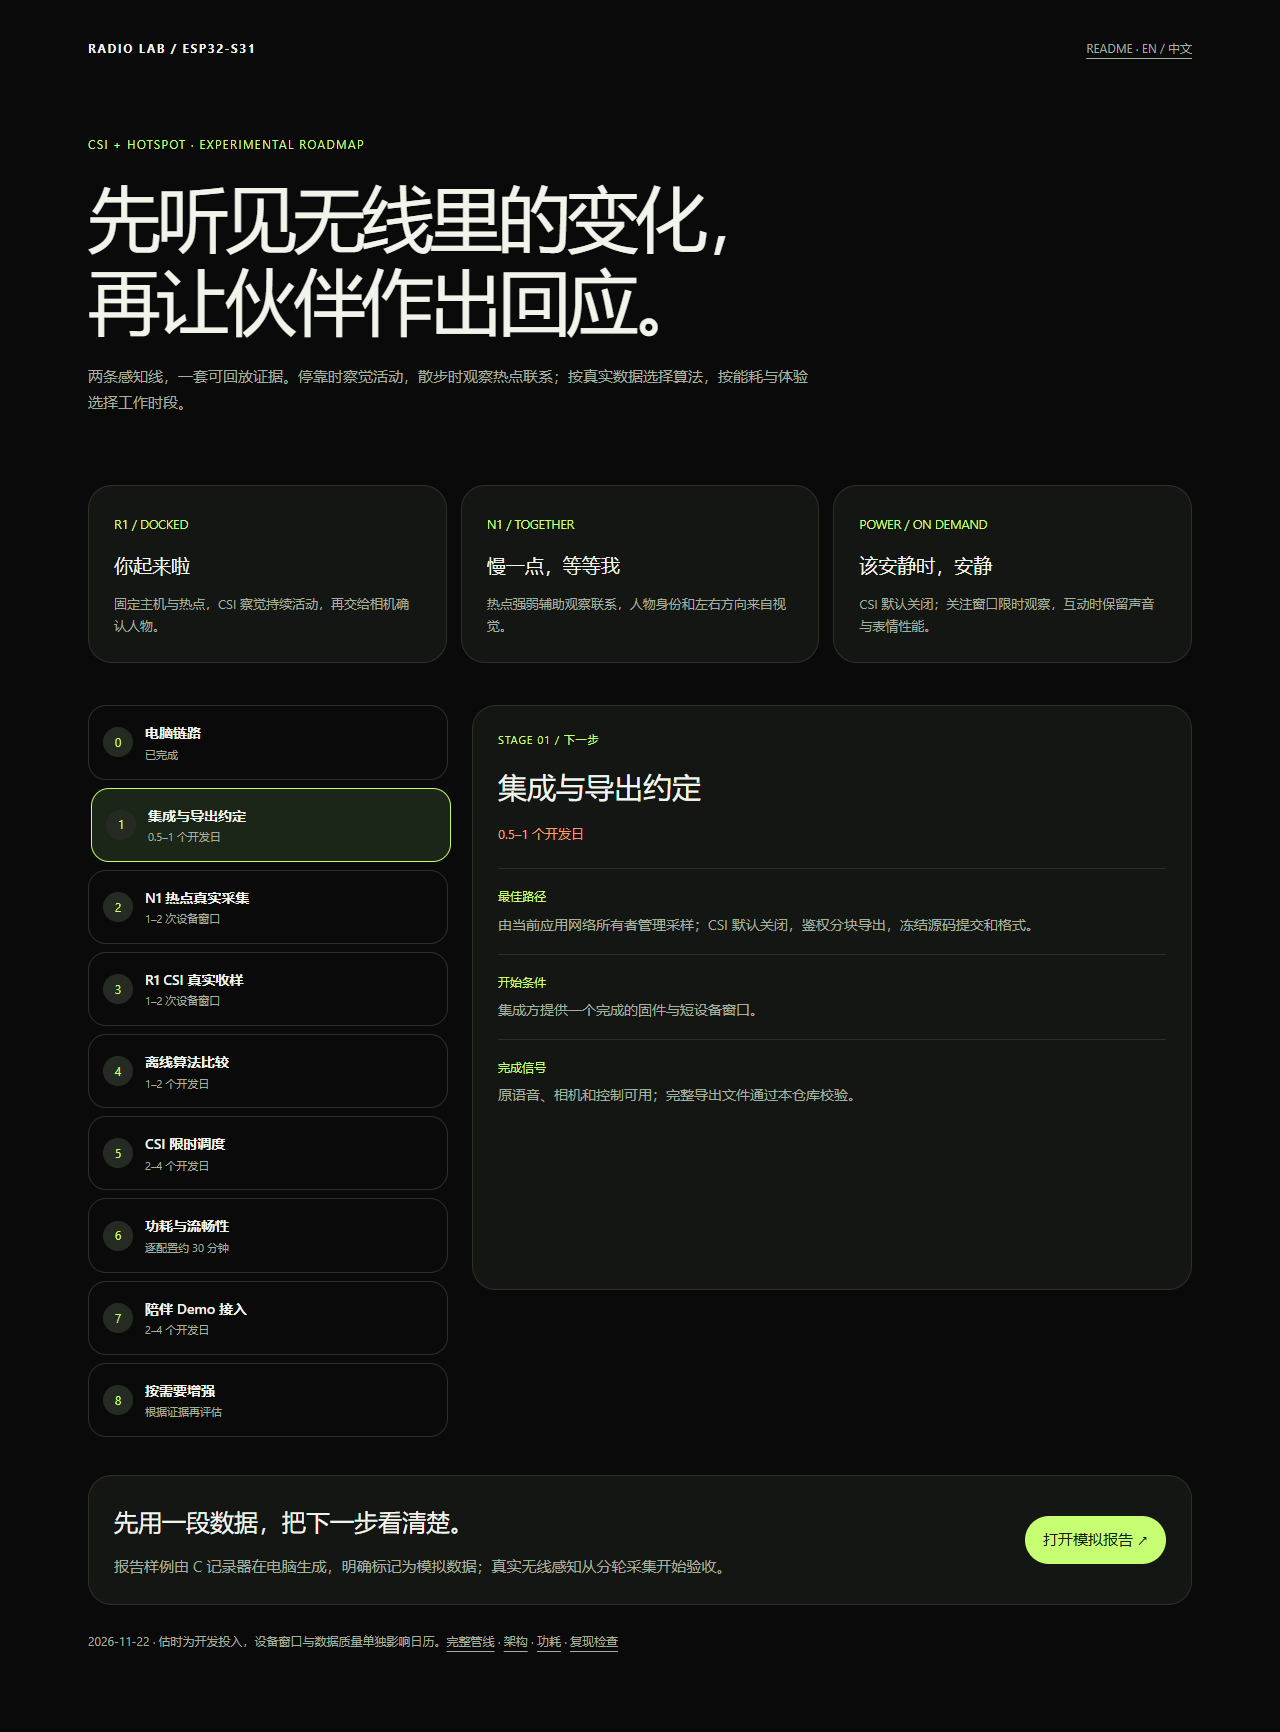
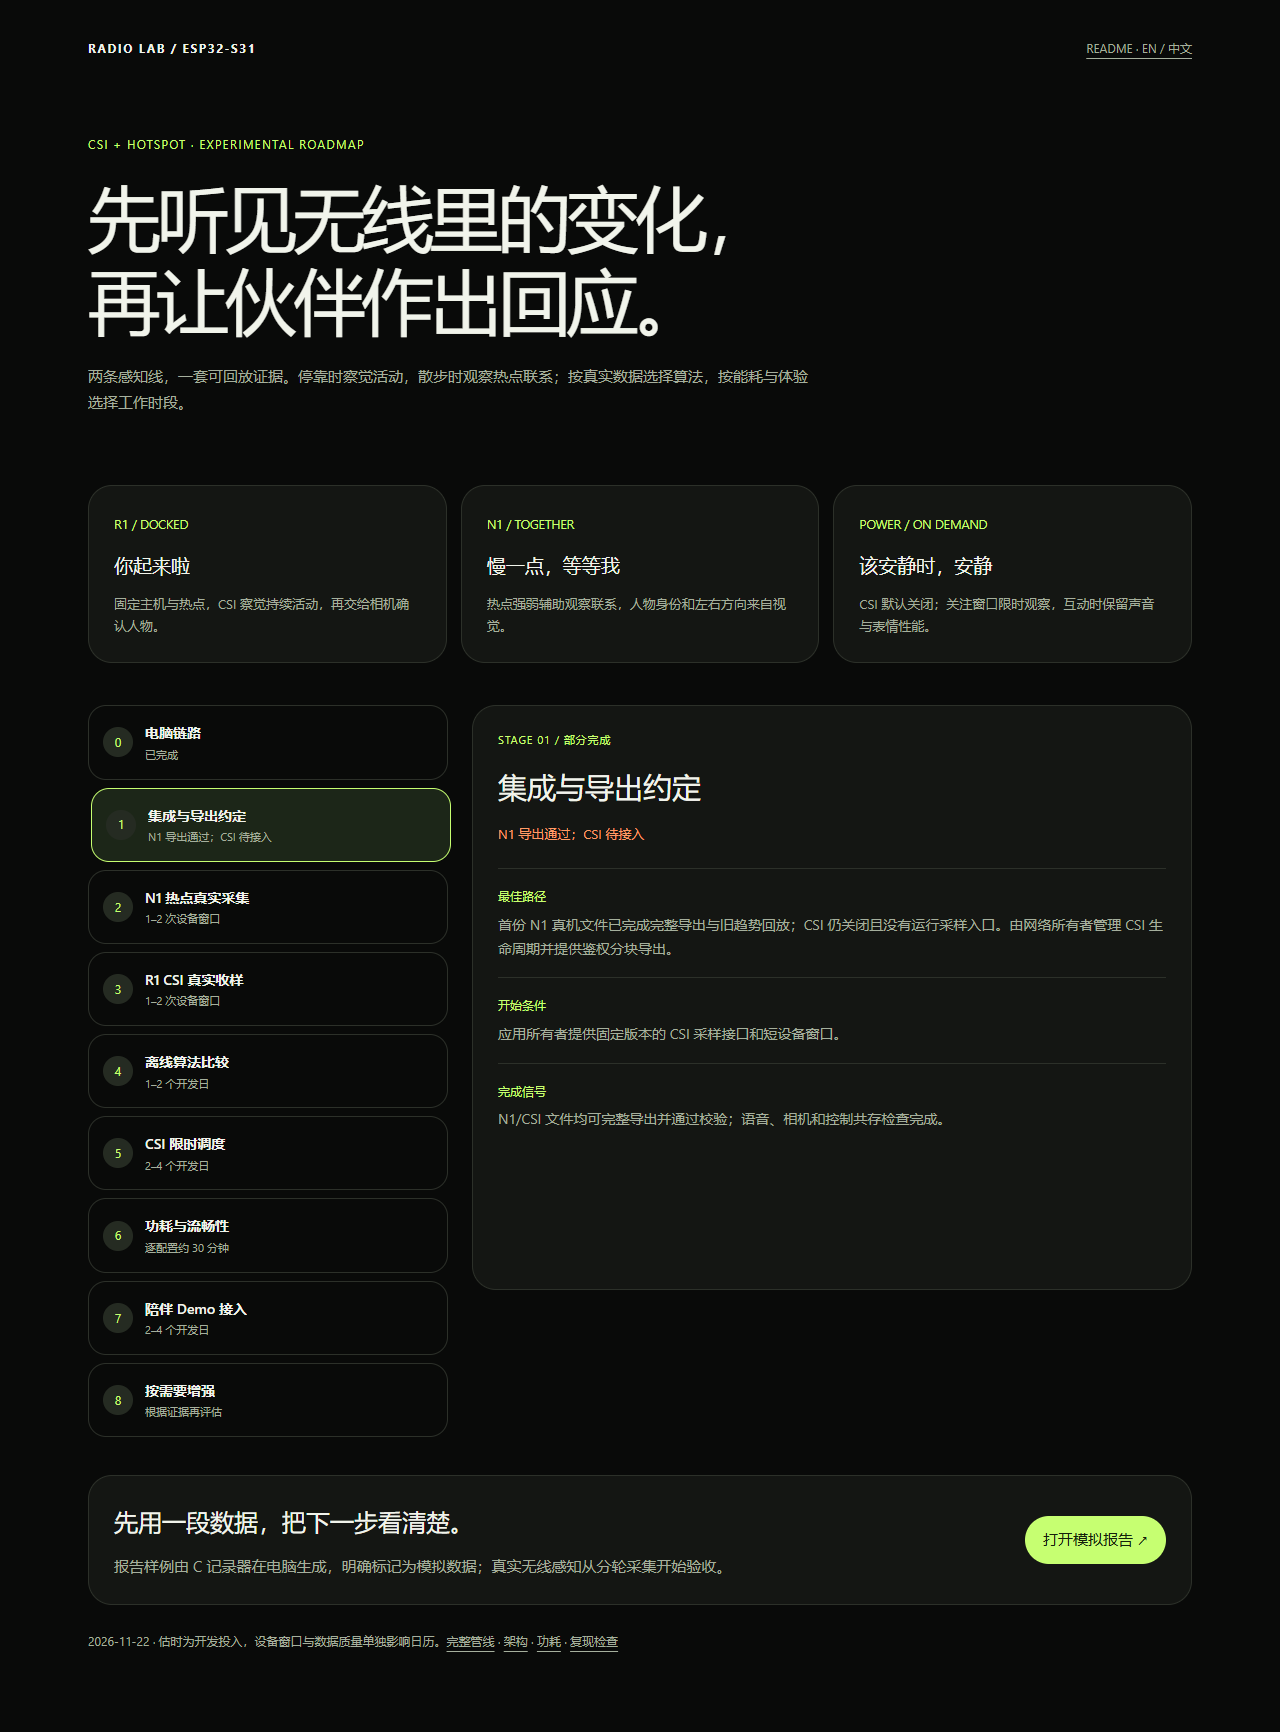
docs: review first N1 device export and plan labeled trials

diff --git a/docs/index.html b/docs/index.html
@@ -18,8 +18,8 @@
 'use strict';
 const stages=[
 ['电脑链路','已完成','已交付 · 可复现','有界记录器、严格文件校验和离线 HTML 报告。模拟数据用于验证处理链路。','固定 S31 源码与明确的文件格式。','C 核心、Python 分析和浏览器交互检查通过；保留模拟标记与输入校验。'],
-['集成与导出约定','0.5–1 个开发日','下一步','由当前应用网络所有者管理采样；CSI 默认关闭，鉴权分块导出，冻结源码提交和格式。','集成方提供一个完成的固件与短设备窗口。','原语音、相机和控制可用；完整导出文件通过本仓库校验。'],
-['N1 热点真实采集','1–2 次设备窗口','待真实采集','用手机热点标注站定、走远、走近、转身、口袋和身体遮挡；保留来源、读序号和人工标签。','当前固件的 N1 导出可用。','走远／走近各至少 5 次，另有遮挡对照；独立轮次验证趋势。'],
+['集成与导出约定','N1 导出通过；CSI 待接入','部分完成','首份 N1 真机文件已完成完整导出与旧趋势回放；CSI 仍关闭且没有运行采样入口。由网络所有者管理 CSI 生命周期并提供鉴权分块导出。','应用所有者提供固定版本的 CSI 采样接口和短设备窗口。','N1/CSI 文件均可完整导出并通过校验；语音、相机和控制共存检查完成。'],
+['N1 热点真实采集','1–2 次设备窗口','首份导出完整，动作未标记','run 6 有 170 条有效读数，但每条都是未标记；下一轮使用手机热点标出站定、走远、走近、转身、口袋和身体遮挡。','当前固件的 N1 导出可用。','走远／走近各至少 5 次，另有遮挡对照；独立轮次验证趋势。'],
 ['R1 CSI 真实收样','1–2 次设备窗口','待真实采集','固定主机、头部与热点；采安静、用户走动和自身运动。核对实际字节格式与可用包率。','完整 CSI 导出、稳定连接与真实姿态依据。','载荷、无效前缀、包率和丢样可解释；完成语音／相机关开对照。'],
 ['离线算法比较','1–2 个开发日','数据通过后','建立简单统计基线，再评估 ESPectre core-only 候选。按完整采集轮次拆分调参和验收。','可信的真实数据与格式说明。','每轮检出、漏检、误触发和延迟有记录；留出数据上的收益明确。'],
 ['CSI 限时调度','2–4 个开发日','算法通过后','优先约定前的关注窗口；另比较采 6 秒／停 24 秒。关闭驱动和探测，恢复后重建背景。','真实数据上的活动检测已可用。','窗口外关闭，状态发布未知；动作、对话和取消可结束观察。'],

diff --git a/docs/DEVELOPMENT_PLAN.md b/docs/DEVELOPMENT_PLAN.md
@@ -2,6 +2,8 @@
 
 Updated 2026-11-22. This roadmap develops docked activity awareness and lightweight walking companionship from labeled data, measured power and repeatable interaction checks.
 
+Current evidence: the first real N1 export from AirBoat 1.33.1 contains 170 valid observations over 88.207 seconds with no missing or overwritten records. All are unlabeled; movement classification is pending. The handoff firmware has CSI disabled and no runtime CSI capture path. See the [run 6 field note](FIELD_NOTES/2026-11-22-n1-run6.md) and [next capture card](N1_NEXT_CAPTURE.zh-CN.md).
+
 ## Target experience
 
 - **R1: “你起来啦”** — the companion is docked with its radio endpoints fixed. It notices sustained nearby activity, wakes its eyes, and uses the existing camera to confirm who is there.
@@ -30,7 +32,7 @@ Stages 2 and 3 share one device and are scheduled in short, separate windows. Of
 | Stage | Estimate | Goal and best path | Entry | Exit / evidence |
 | --- | --- | --- | --- | --- |
 | 0. Desktop tools and contracts | Complete | Portable bounded N1/R1 cores; strict validators; self-contained HTML replay | Fixed S31 source snapshot | C/Python/browser checks pass. Current simulated package is here; it is not real RF evidence. |
-| 1. Integration and export contract | 0.5–1 day | Integrate through the application’s current network owner; CSI remains default off; authenticated chunked export; freeze exact firmware commit and schema | Application owner provides a completed firmware build and a device window | Existing voice, camera and control regressions pass with probe off; complete N1/CSI files export and replay. Record firmware commit, schema, enabled state and counters. |
+| 1. Integration and export contract | N1 partially verified; CSI integration pending | N1 export completed on handoff snapshot 1.33.1. Integrate CSI through the network owner, default off, with authenticated chunked export and a fixed firmware/schema | Application owner provides a completed firmware build and a device window | N1 file integrity and historical replay passed. CSI runtime/export and off/on voice, camera and control coexistence remain separate acceptance gates. |
 | 2. N1 labeled phone-hotspot data | 1–2 sessions, about 30–45 min each | Keep the Android hotspot and device linked; record fixed/nearby baseline, walk-away, return, turns and pocket/body-block controls. Repeat each movement at least 5 times. Keep human labels; never convert dBm into meters. | Stage 1 export and matching device/run identity | At least 5 away and 5 toward trials, plus turn and occlusion controls. All files validate; compare held-out repetitions. Provisional target: correct trend in at least 4/5 in each direction; turns/occlusion alone do not trigger the social event. |
 | 3. R1 CSI format, rate and coexistence | 1–2 sessions, about 30–45 min each | Fix both radio endpoints and the airframe/head. Capture quiet, person movement, airframe motion, channel/reconnect changes. First use received traffic; test 20 packets/s gateway ping only as a separate, bounded comparison. | Stage 1 export, stable connected AP and trustworthy motion evidence | Confirm actual byte layout, invalid prefix handling, usable packet rate and gaps. Quiet / person movement / self-motion files validate and have labels. Voice, camera and phone link have an off/on comparison. No activity claim until layout is understood. |
 | 4. Offline detector comparison | 1–2 days | Compare a simple per-session baseline with an ESPectre core-only candidate after feature normalization; split evaluation by complete recording/session, not neighboring frames | Stages 2 and 3 supply valid labeled captures and format note | Publish per-trial detection, miss, false-event and delay metrics; report held-out results and limitations. Keep CSI as data only if it beats the no-CSI baseline on the intended scene. |

diff --git a/README.md b/README.md
@@ -15,6 +15,7 @@ An experimental ESP32-S31 project for fixed-dock Wi-Fi CSI activity sensing and 
 - [Power plan](docs/POWER_PLAN.md): bounded CSI windows and whole-device measurement.
 - [Reproduce desktop checks](docs/TESTING.md).
 - [Dated validation record](docs/VALIDATION.md).
+- [First real N1 export review](docs/FIELD_NOTES/2026-11-22-n1-run6.md).
 - [Open the simulated report](examples/report/report.html).
 - [Interactive stage map](docs/index.html): browse each phase, input requirement, and completion signal.
 
@@ -22,7 +23,7 @@ An experimental ESP32-S31 project for fixed-dock Wi-Fi CSI activity sensing and 
 
 | Area | Included | Evidence boundary |
 | --- | --- | --- |
-| N1 hotspot | Bounded recorder and relative RSSI trend | C tests; real phone movement and RF performance remain to be measured |
+| N1 hotspot | Bounded recorder and relative RSSI trend | First real export passed integrity checks; it has no movement labels, so walk-away performance remains unmeasured |
 | R1 CSI | S31 LLTF8 configuration adapter, bounded callback queue, JSONL encoder and quality analyzer | Host tests and fixed-SDK translation-unit checks in the source package; real payload layout and packet rate remain to be measured |
 | Offline review | HTML report for N1 JSON and R1 CSI JSONL | Browser-tested with simulated data |
 | Power-aware sensing | Design for CSI-off-by-default and bounded observation windows | Design only; no power-saving percentage is claimed |
@@ -66,6 +67,7 @@ Repository documentation and project glue use the repository [MIT License](LICEN
 - [功耗方案](docs/POWER_PLAN.md)：CSI 限时观察和整机功耗测量。
 - [电脑端复现检查](docs/TESTING.md)。
 - [本轮验证记录](docs/VALIDATION.md)。
+- [第一份真机 N1 导出分析](docs/FIELD_NOTES/2026-11-22-n1-run6.md)。
 - [打开模拟数据报告](examples/report/report.html)。
 
 ![N1 and R1 simulated replay report](docs/assets/report-desktop.png)
@@ -76,7 +78,7 @@ Repository documentation and project glue use the repository [MIT License](LICEN
 
 | 模块 | 仓库内容 | 证据边界 |
 | --- | --- | --- |
-| N1 热点 | 有界记录器和相对 RSSI 趋势 | C 测试已覆盖；真实手机移动与无线效果待测 |
+| N1 热点 | 有界记录器和相对 RSSI 趋势 | 首份真机导出完整性通过；没有动作标签，走远/走近效果待测 |
 | R1 CSI | S31 LLTF8 配置适配、有界回调队列、JSONL 编码和质量分析 | 源码包包含电脑检查与固定 SDK 编译单元检查；真实载荷格式和包率待测 |
 | 离线报告 | 读取 N1 JSON 与 R1 CSI JSONL 的交互报告 | 已用模拟数据通过浏览器检查 |
 | 功耗感知 | CSI 默认关闭与限时观察设计 | 目前是设计，尚无省电百分比结论 |
@@ -85,7 +87,7 @@ Repository documentation and project glue use the repository [MIT License](LICEN
 
 ### 开发顺序
 
-电脑端模拟与分析工具已完成。下一步先确认当前应用版本的集成和导出契约，再分别采集 N1 热点与 R1 CSI 的真实数据。数据质量通过后，比较活动检测方法；之后才实现限时 CSI 观察、测量整机功耗与共存，最后接入停靠陪伴体验。
+电脑端工具和 N1 导出完整性检查已完成。首份真机 N1 记录没有动作标签；下一步按路线采集带标签的热点移动数据，并继续补齐 CSI 的运行采样与导出契约。真实数据质量通过后再比较算法、实现限时 CSI、测整机功耗与共存，最后接入停靠陪伴体验。
 
 完整阶段、时间估计和验收门槛见[开发管线](docs/DEVELOPMENT_PLAN.zh-CN.md)。时间是工程投入估算，不是日历承诺；进度取决于单台设备的测试窗口和真实数据质量。
 

diff --git a/docs/N1_NEXT_CAPTURE.zh-CN.md b/docs/N1_NEXT_CAPTURE.zh-CN.md
@@ -1,0 +1,48 @@
+# N1 下一轮：给信号标上动作
+
+## 目的
+
+第一份 run 6 已证明可以采集和导出。这轮要让每段信号对应一个明确动作，才能比较“走远”和“走近”，以及转身、口袋造成的变化。
+
+## 准备
+
+- Mosaico 用 USB 供电，固定在桌边；独立动力电池断开。沿用交接时的相机和外设接法。
+- 三星 S25 Edge 开原来的 2.4 GHz 热点，连好手机遥控网页，进入“伙伴 → 热点感知实验”。
+- 保持网页在前台、屏幕亮着，手机选“随身携带”。记录手机拿法、主机高度、房间和供电状态。
+- 用地砖或卷尺找约 1 米和 3 米两个位置，留出可以正常走动的空间。
+
+页面的距离是你手动填写的参考位置；负数 dBm 是接收信号强度，越接近 0 通常越强。
+
+## 先做 1 分钟练习
+
+1. 点“开始新一轮”，确认条数增长。
+2. 在约 1 米处，选“安静站定”，距离填 1，点“标记这一段”，停 10 秒。
+3. **先选“走远”并点标记，再开始走。** 距离留空，用约 8–12 秒走到约 3 米。到位后改为“安静站定”，距离填 3，点标记，停 10 秒。
+4. 先选“走近”并点标记，再用约 8–12 秒走回约 1 米；到位后改回站定并标记。
+5. 点“停止并导出”，保留下载文件。电脑分析后应出现站定、走远、走近三个区间；这是开始正式采集的信号。
+
+每次点“标记这一段”，标签都作用于之后的记录。停下后要改回站定，让动作区间有明确终点。手机锁屏或离开网页后，超过 5 秒没有有效联系会清除标签；回来后重新标记。
+
+## 正式第一轮：约 8–10 分钟
+
+1. 保存练习文件，再开始新一轮。
+2. 分别在约 0.5、1、2、3 米处站定 20 秒。每次填写距离、点站定标记后再计时；手机方向和拿法保持一致。
+3. 在 1 米和 3 米之间做 5 次完整往返。每次先标走远、走到位后标站定并停 10 秒；再标走近、到位后标站定并停 10 秒。
+4. 在约 1 米处，分别做原地转身、手机放进口袋、身体遮挡手机。每类做 5 次，每次约 8 秒；开始前标对应动作，结束后恢复站定并停 5 秒。
+5. 停止并导出。新一轮会替换主机中的上一轮记录，先看到下载文件再继续。
+
+每轮最多保留 1,200 条，约 10 分钟；以页面覆盖计数为准。若动作较慢，先导出走远/走近这一轮，再另采转身和遮挡。
+
+## 第二轮：检验是否能重复
+
+保持相同摆位，再做一轮 5 次往返与遮挡对照，分别保存。第一轮用于分析和选参数，第二轮用于检查选好的参数是否仍有效。
+
+## 完成后交什么
+
+- 每轮原始 JSON，不改文件内容。
+- 一句话说明手机拿法、主机摆位、两端实际距离，以及中途有没有聊天、开相机、锁屏或断网。
+- 当次固件版本和异常现象。
+
+完成信号：每段动作都有标签、走远和走近各 5 次、导出条数完整。分析会先检查标签覆盖，再对照趋势。相机、聊天与锁屏恢复的共存检查另开一轮，便于判断每种变化的来源。
+
+[开发管线](DEVELOPMENT_PLAN.zh-CN.md) · [首份数据结论](FIELD_NOTES/2026-11-22-n1-run6.md)

diff --git a/docs/FIELD_NOTES/2026-11-22-n1-run6.md b/docs/FIELD_NOTES/2026-11-22-n1-run6.md
@@ -1,0 +1,29 @@
+# N1 Run 6: First Device Export
+
+Date: 2026-11-22
+
+## Purpose
+
+Check that a real N1 collection can be stopped, exported, validated and replayed before using it to evaluate walk-away and return behavior.
+
+## Evidence
+
+- Firmware snapshot recorded in the supplied handoff: AirBoat 1.33.1, application commit e67092219f9900c8b9970ece5d4f06266457a39b. Device installation and runtime identity were not rechecked during this offline intake.
+- Input: airboat-hotspot-24631219-run6.json, schema airboat.hotspot-probe.v1, simulated=false.
+- Source SHA-256: 8676ce03f8d05c0f806fa76ebde3a4938bf79da55382f87965eec1789093c09a.
+- 170 of 170 readings are valid and paired over 88.207 seconds. No overwritten or missed reads, AP changes, or gaps above the one-second continuity limit.
+- Sampling interval: 500 ms minimum, 502 ms median, 552 ms maximum; average 1.916 readings per second.
+- RSSI ranged from -52 to -35 dBm, with a -40 dBm median. These values describe this recorded link; the file has no controlled distance labels.
+- All 170 records have label 0 (unmarked) and distance 0 mm. Recorded trend counts are 68 unknown, 101 stable and 1 strengthening. The pinned N1 replay has zero mismatches. No FTM responder was reported.
+
+## Conclusion
+
+The capture and export path completed cleanly, and the offline validator could replay the recorded trend. This run does not test distance response, walk-away or return classification, because no movement intervals were labeled. RSSI is only a relative link observation, not a meter or direction reading.
+
+The raw file is intentionally not included here. It contains the device boot identifier and hotspot BSSID. The source hash above ties this note to the exact local evidence without publishing those identifiers.
+
+## Next step
+
+Collect controlled N1 labels using the same phone, hotspot and host placement: stationary points at known distances, at least five walk-away and five return trials, then turn, pocket and body-occlusion controls. Export and validate the run before comparing the labeled trend. Keep CSI as a separate gate: the handoff reports it was disabled and had no live capture path.
+
+The full entry, expected outcomes and later gates are in the [Chinese development roadmap](../DEVELOPMENT_PLAN.zh-CN.md).

diff --git a/docs/VALIDATION.md b/docs/VALIDATION.md
@@ -13,19 +13,25 @@ Updated: 2026-11-22
 - Browser check: 8 groups passed at desktop and 390 px widths; no JavaScript
   errors or external requests.
 
-All capture files in this repository are synthetic and marked
-`simulated=true`. These checks validate code, file handling and presentation.
-They do not measure a real hotspot, CSI radio payload, activity detector,
-device power, or integrated Mosaico behavior.
+## First real N1 export
+
+The [first device export review](FIELD_NOTES/2026-11-22-n1-run6.md) confirms 170
+valid observations over 88.207 seconds, no missed or overwritten reads, and
+zero historical replay mismatches. All observations are unmarked, so movement
+classification is pending. The raw capture stays local; the public field note
+contains aggregate results and its SHA-256.
+
+Repository fixtures remain synthetic and marked `simulated=true`. Real CSI,
+labeled movement detection, integrated coexistence and power measurements
+have their own acceptance gates.
 
 ## Next evidence gate
 
-Stage 1 in the [development plan](DEVELOPMENT_PLAN.zh-CN.md) is the next step:
-the integrating application owner selects a fixed firmware source snapshot,
-agrees on the export schema and authentication boundary, and provides a short
-device window. Record the firmware commit, SDK, board identity, power source,
-run ID, packet counters and original-file hashes before starting N1 or CSI
-field collection.
+The next N1 step is [labeled movement collection](N1_NEXT_CAPTURE.zh-CN.md).
+For CSI, stage 1 in the [development plan](DEVELOPMENT_PLAN.zh-CN.md) still
+requires a fixed runtime/export contract from the integrating application.
+Record firmware/SDK, power source, run ID, packet counters and original-file
+hashes for every device window.
 
 Desktop verification is separate from target compilation, installation,
 runtime identity, RF measurement and human acceptance. The [power plan](POWER_PLAN.md)
